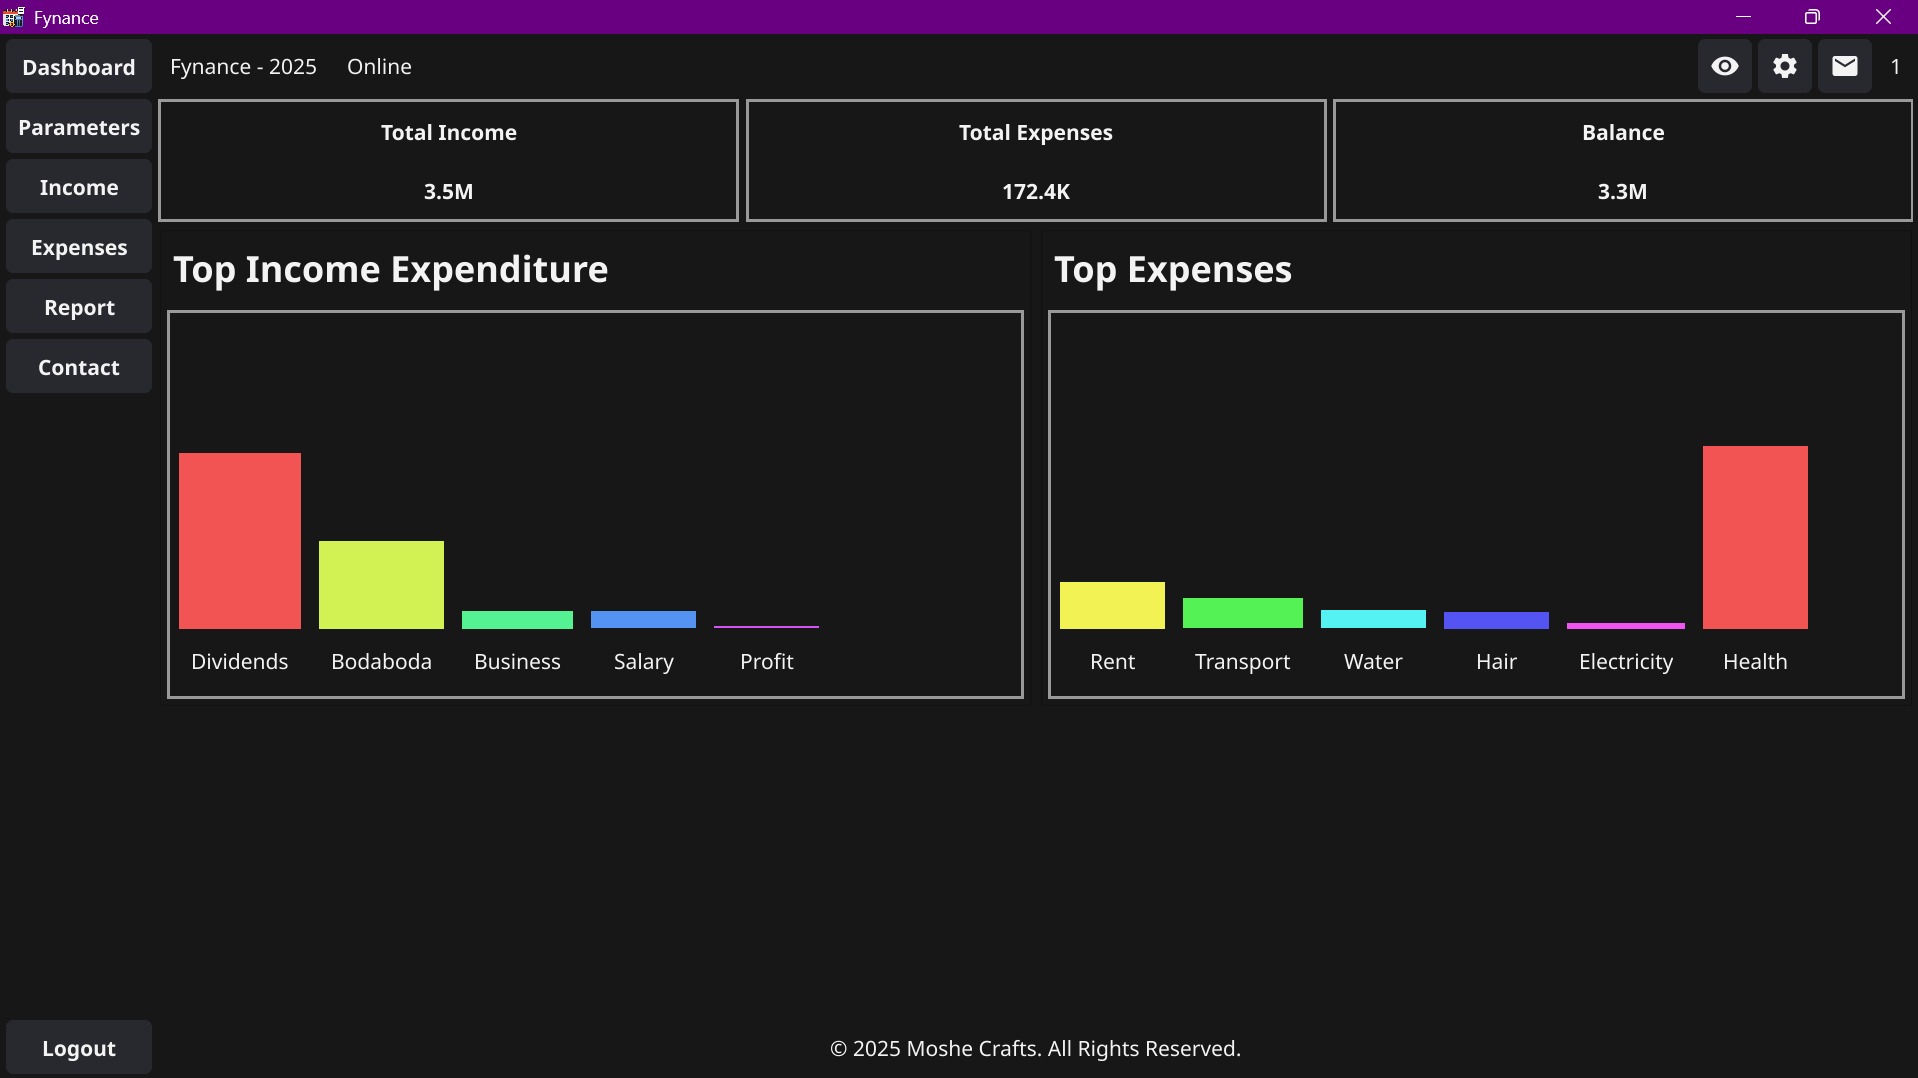
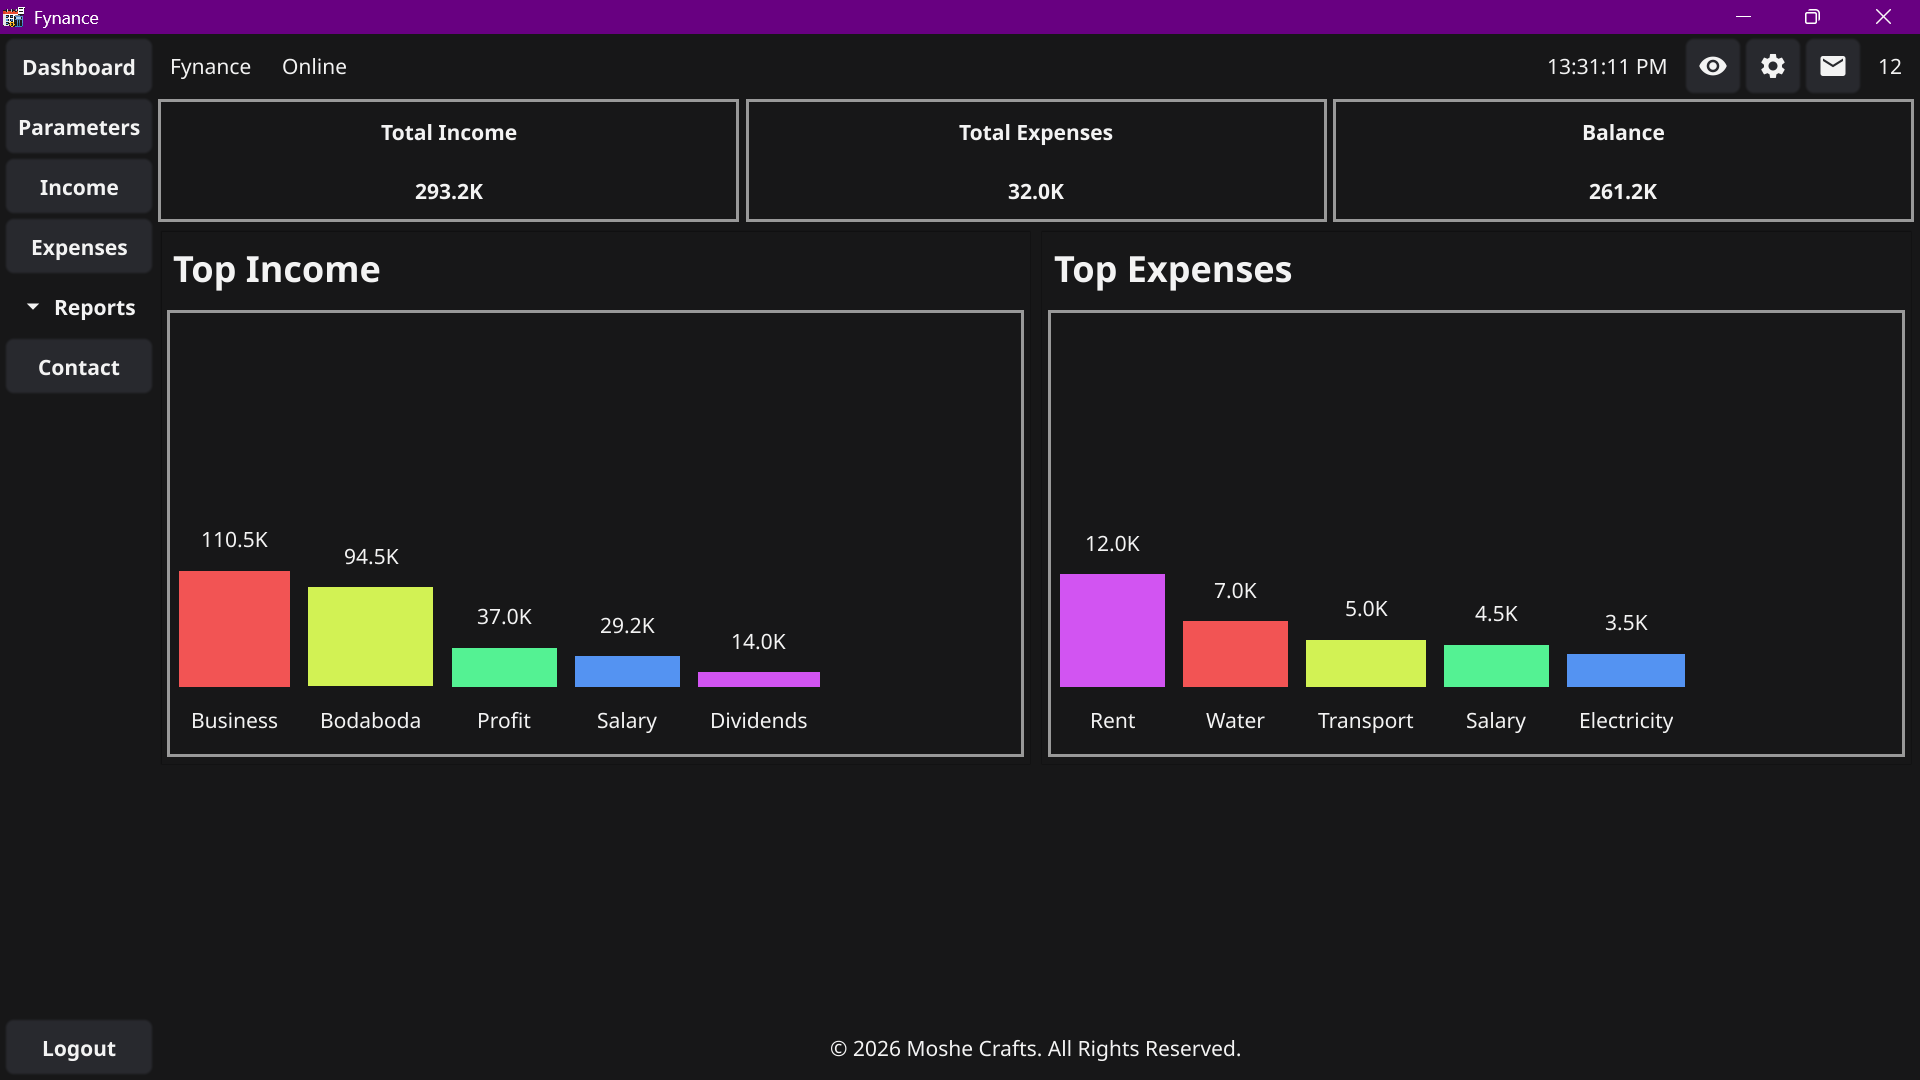
feat: Updated installation instructions

diff --git a/README.md b/README.md
@@ -17,11 +17,12 @@ and gain insights into your spending habits.
 
 ## Features
 
-✔ Expense Management: Add, update, delete, and categorize expenses.  
-✔ Income Management: Record and track income sources.  
-✔ Export Data: Export financial reports to CSV.  
-✔ Dark/Light Mode: Switch between themes for better usability.  
-✔ User Authentication: Secure login with password protection.
+1. Expense Management: Add, update, delete, and categorize expenses.
+2. Income Management: Record and track income sources.
+3. Export Data: Export financial reports to CSV.
+4. Template: income and expenses xlsx templates for bulk upload.
+5. Dark/Light Mode: Switch between themes for better usability.
+6. User Authentication: Secure login with password protection.
 
 ## System Requirements
 
@@ -33,10 +34,11 @@ and gain insights into your spending habits.
 
 ## Installation Instructions
 
-1. Download [Fynance](https://github.com/clinton-mwachia/Fynance/releases).
-2. Run the installer and follow the on-screen instructions.
-3. Choose the location where you want the application to be installed.
-4. Once installed, launch Fynance from the Start Menu or desktop shortcut.
+1. Download MongoDB and install.
+2. Download [Fynance](https://github.com/clinton-mwachia/Fynance/releases).
+3. Run the installer and follow the on-screen instructions.
+4. Choose the location where you want the application to be installed.
+5. Once installed, launch Fynance from the Start Menu or desktop shortcut.
 
 ## How to Use
 
